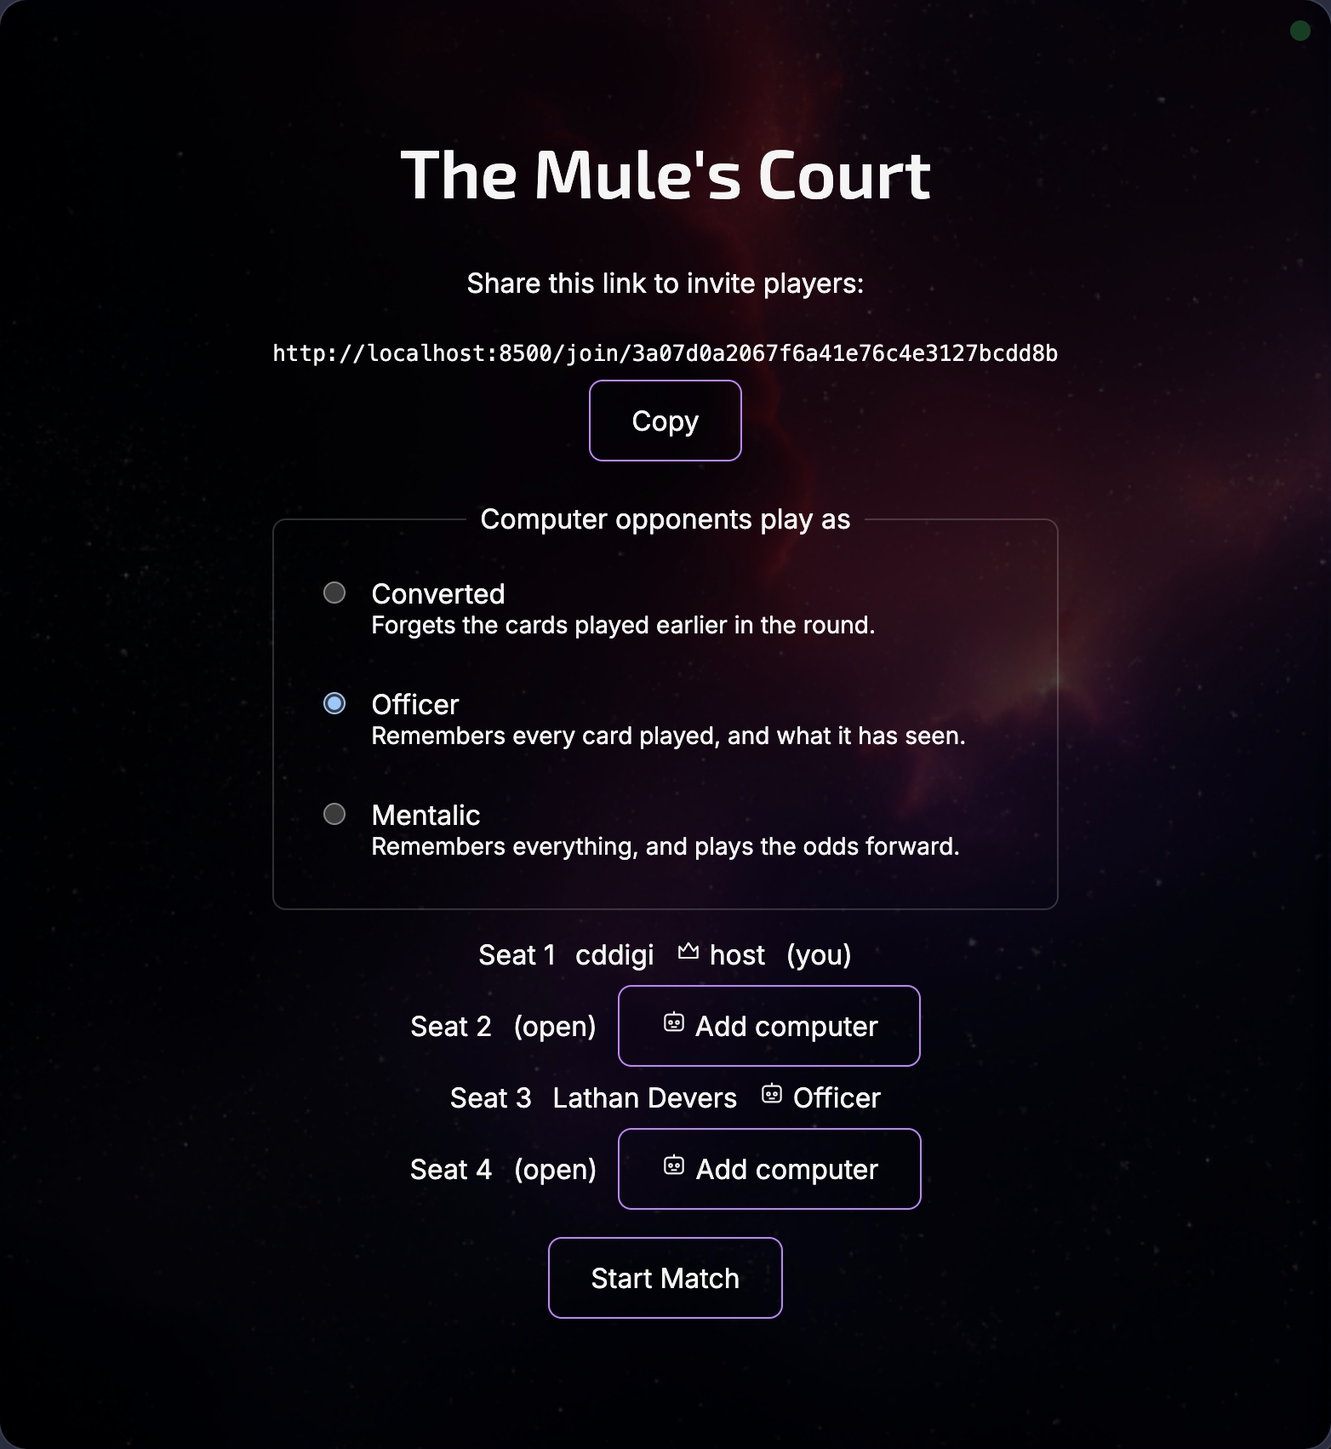
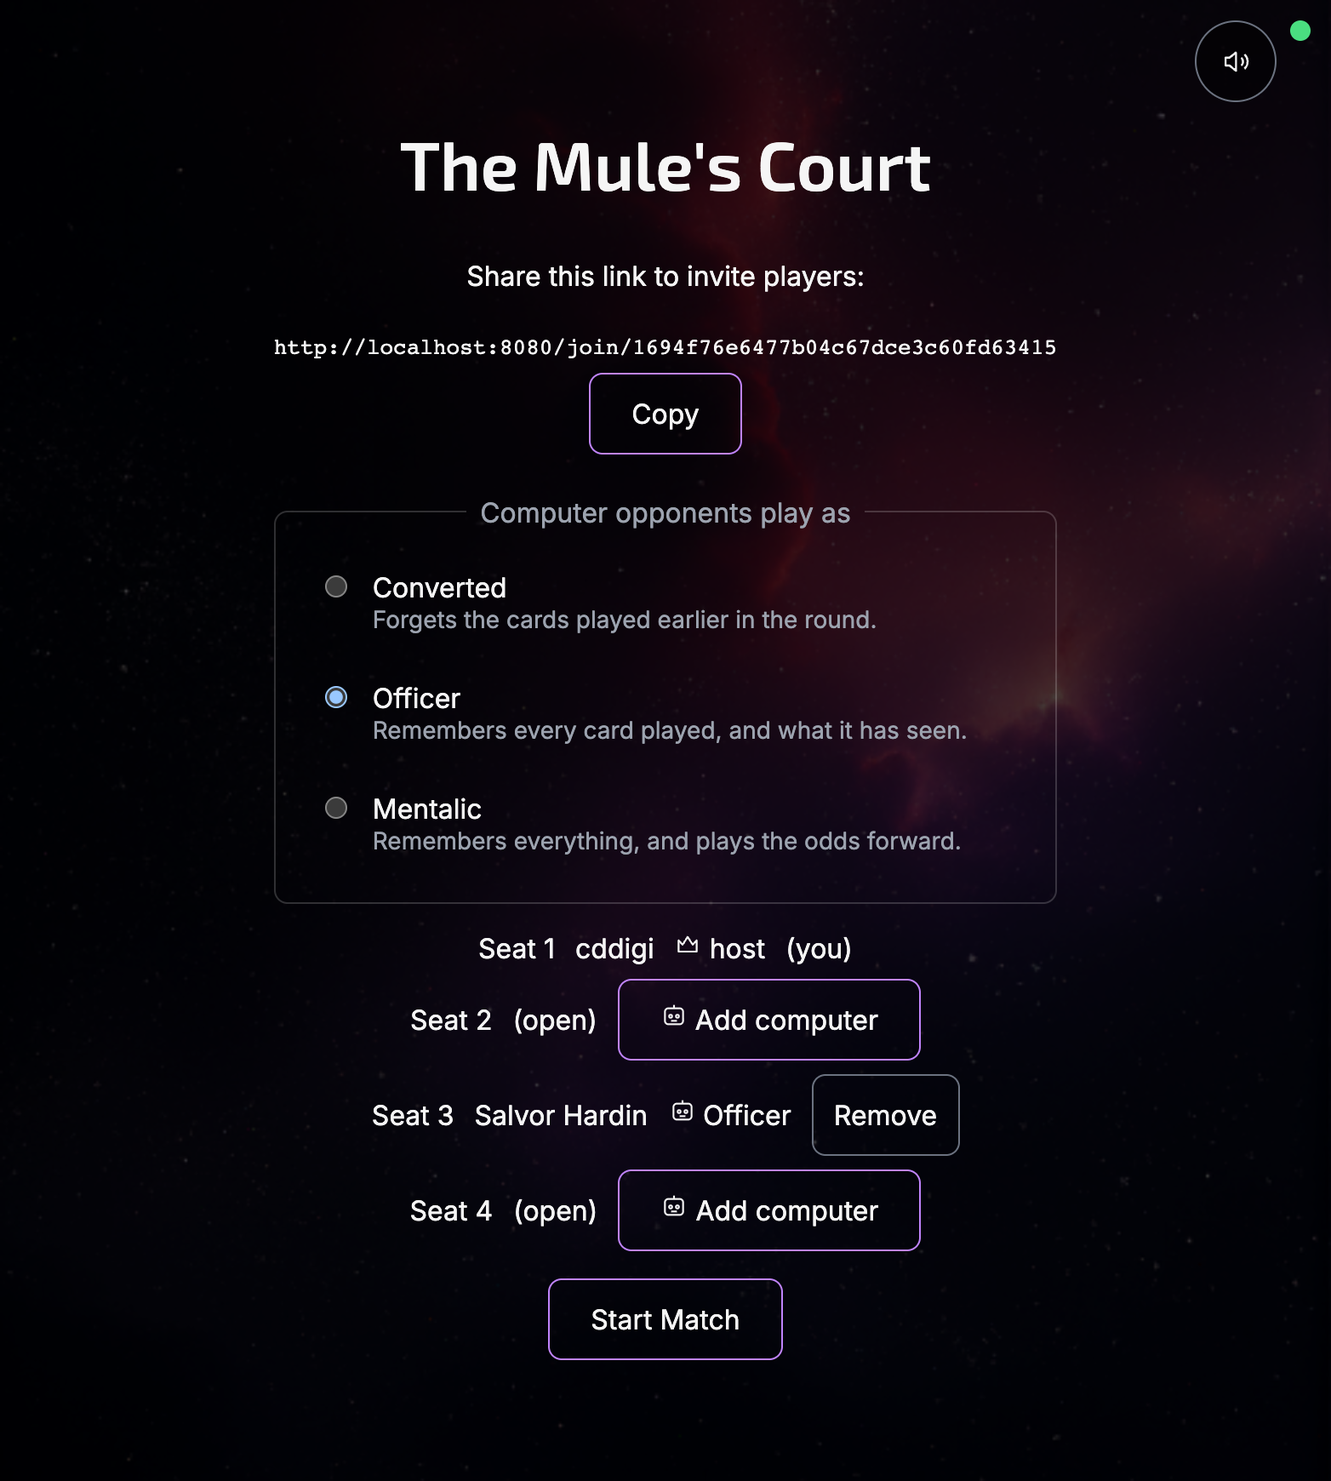
docs: bring README back in line with the code, and record the sounds
An audit against the actual repository, then a re-audit of the corrections.

Two claims were flatly wrong rather than merely stale:

- "Filling a seat is one-way: the lobby has no button to empty it again" —
  REMOVE_BOT shipped in 1.2.4, four days before the README was last edited.
  docs/gameplay/lobby.png showed the same thing: a seated computer with no
  Remove button. Regenerated from a real lobby at the original viewport, and
  the alt text follows the new image.
- "A non-host cannot end a match whose host vanished mid-round" was listed as a
  known limitation. room.ts#endMatch allows any connected seat once a seat has
  been missing past activeGraceMs.

Stale figures, all re-measured rather than adjusted by eye: version 1.2.3 to
1.2.4; 2,151 tests across 122 files to 2,326 across 128; the binary banner's 27
embedded assets to 39; the client's 7.6 MB and 104 KB of JS+CSS to about 9 MB
and 124 KB.

Undocumented things that existed: src/mcp as a fifth layer, visual/, scripts/
and .github/ in the structure table, seven scripts in the commands table, the
--port flag, the visual harness and its gallery, and two more non-obvious test
gates.

public/assets/sfx/ was missing from BOTH files. The README sentence was copied
from AGENTS.md, which had the same omission, so the copy inherited the error.
Both now list every directory.

Those thirteen recorded sounds landed 2026-08-04, after the 1.2.4 release, with
[…]

diff --git a/README.md b/README.md
@@ -27,10 +27,10 @@ takes a seat. Start the match when 2-4 people are seated.
 _The opening screen. Name yourself, then either host a court or paste a link into
 someone else's._
 
-<img src="docs/gameplay/lobby.png" alt="The lobby: the title 'The Mule's Court', an invite link with a Copy button, a radio group headed 'Computer opponents play as' offering Converted, Officer and Mentalic, four numbered seats — seat 1 the host, seat 3 a computer, seats 2 and 4 open with 'Add computer' buttons — and a Start Match button." width="560">
+<img src="docs/gameplay/lobby.png" alt="The lobby: the title 'The Mule's Court', an invite link with a Copy button, a radio group headed 'Computer opponents play as' offering Converted, Officer and Mentalic, four numbered seats — seat 1 the host, seat 3 holding the computer opponent Salvor Hardin marked Officer with a Remove button beside it, seats 2 and 4 open with 'Add computer' buttons — and a Start Match button." width="560">
 
-_The lobby. The invite link is the whole of joining. Any seat still open when you want
-to begin can be filled by a computer opponent instead._
+_The lobby. The invite link is the whole of joining. Any seat still open when you want to
+begin can be filled by a computer opponent instead, and emptied again if somebody turns up._
 
 To play across a room instead of across tabs, use `bun run dev:host` in terminal 2 —
 it binds to the network and prints an address other devices can open. See
@@ -68,8 +68,10 @@ A computer seat waits 1.2 seconds before it plays. That is pacing, not thinking 
 takes well under a millisecond — because three seats resolving instantly is a table nobody
 can read.
 
-Filling a seat is one-way: the lobby has no button to empty it again, so a misclick means
-starting a new court.
+A seated computer opponent can be removed again while the court is still in the lobby, so a
+misclick costs nothing and a table filled while waiting can be emptied when a friend actually
+arrives. It is the host's button and the lobby's only: a seat that vanished mid-round would
+take a player out of a rotation the engine has already dealt to.
 
 ## Game Rules
 
@@ -120,7 +122,9 @@ A round ends when:
 - The deck runs out → Player with the highest card value wins
 
 When the deck runs out, ties break on the **total value of the discard pile**. Players
-still tied after that share the round, and each earns a token.
+still tied after that share the round, and each earns a token. The round-over screen names
+every revealed hand with its value — *Bayta held 8 · The Mule* — because the showdown is
+decided in numbers and reading it should not mean remembering which character carries which.
 
 The round winner earns 1 Devotion Token. Reset the round and continue until a player
 reaches the winning token count.
@@ -205,6 +209,14 @@ Speaker beside a 5 or a 6 takes the choice away from you._
 _**Match log** — every play, guess and consequence in order. It is the deduction game's
 working memory, so nobody has to hold ten turns of public information in their head._
 
+The log is also spoken. Every entry goes to a live region as it happens, so a screen-reader
+player gets a running account of a turn they cannot see. Most of that commentary is heard
+and not drawn — a single turn can emit a play and its effect, and four seats painting all
+of it would bury the table under its own narration. Two things are drawn: anything a card
+did **to you**, told in the second person, and **a guess between two other players**, which
+is the one public statement of a card *value* in the game and the evidence everyone else's
+deduction is built on.
+
 ## Development
 
 ### Tech Stack
@@ -215,7 +227,7 @@ No runtime dependencies. `package.json` declares none: the client is TypeScript 
 
 ### Architecture
 
-Four layers, each testable without the one above it:
+Four layers stacked, each testable without the one above it — and a fifth beside them:
 
 | Layer                | Where               | What it is                                                                     |
 | -------------------- | ------------------- | ------------------------------------------------------------------------------ |
@@ -223,6 +235,7 @@ Four layers, each testable without the one above it:
 | **Server**           | `src/server/`       | `Bun.serve` WebSocket transport that wraps the engine and owns match state     |
 | **Client (pure)**    | `src/client/`       | Layout, copy, palette, and state — no DOM, no ambient globals                 |
 | **Client (surface)** | `src/client/ui/`    | The table and the chrome, one factory per DOM surface                        |
+| **MCP seats**        | `src/mcp/`          | Seats a model at two or three chairs, over the same socket a browser uses    |
 
 The interface holds no game state. The server pushes a `RedactedView` — one player's
 redacted picture of the match — and the client sends back a single `PLAY_CARD` message.
@@ -231,6 +244,13 @@ Anything the interface appears to decide, it read from that view.
 Rooms persist `{seed, actionLog}` rather than a state snapshot, and rebuild by replaying
 actions through the engine. A server restart mid-match is therefore safe: clients
 reconnect with backoff and resume their seat.
+
+`src/mcp/` is a **client** of the transport rather than a part of it: it connects over a
+WebSocket exactly as a browser does and imports the protocol and engine types rather than
+restating them, so wire drift is a compile error. Each seat gets an opaque handle at claim
+time and every seat-scoped tool demands one, so an agent holding one seat's handle cannot
+read another's hand — without that the game stops existing, since one mind holding three
+hands makes every Informant guess a certainty.
 
 Beside those sits `src/game/ai/`, the [computer opponents](#computer-opponents). It is a
 client of the engine rather than a layer of it: a policy takes the same `RedactedView` a
@@ -242,8 +262,9 @@ the embedded asset manifest is: `heuristic.ts` imports it, so a clone without it
 judged — by win rate over seeded matches, not by inspection.
 
 The full design documents live in `docs/plans/` — engine architecture, transport
-protocol, the UI/UX design, and `2026-07-30-computer-opponent-design.md` for the
-opponents.
+protocol, the UI/UX design, `2026-07-30-computer-opponent-design.md` for the opponents,
+and `2026-07-28-mcp-seat-design.md` for the MCP seats. `AGENTS.md` at the repo root is the
+working guide for anyone — human or agent — changing the code.
 
 ### Requirements
 
@@ -273,12 +294,19 @@ one process serving the built `dist/` as well.
 | `bun run dev`         | Vite dev server for the client on `http://localhost:8080` (`vite/config.dev.mjs`)    |
 | `bun run dev:server`  | The API and WebSocket server on `:3000`, under `bun --watch`                         |
 | `bun run dev:host`    | Like `dev`, but bound to the network so another device can reach it                  |
-| `bun run test`        | Every test — engine and client under Vitest, then server under `bun test`            |
+| `bun run test`        | Every test — engine and client under Vitest, then server and MCP under `bun test`    |
 | `bun run test:engine` | Engine and client tests only                                                         |
 | `bun run test:server` | Server and transport tests only                                                      |
+| `bun run test:mcp`    | MCP seat-server tests only                                                           |
 | `bun run test:watch`  | Vitest in watch mode                                                                 |
-| `bun run build`       | Minified production build into `dist/` (`vite/config.prod.mjs`)                      |
+| `bun run test:visual` | Screenshot real matches and real surfaces in a real browser; needs both dev servers  |
+| `bun run build`       | Minified production build into `dist/`, then regenerates the embedded asset manifest |
 | `bun run serve`       | Serve the built `dist/` and the game server from one process                         |
+| `bun run mcp`         | The MCP seat server on stdio; needs a game server running                            |
+| `bun run host`        | Own the game server and seat 1, leaving the rest to arrive over MCP                  |
+| `bun run compile`     | Single-file executable → `./mules-court` (see [As a single binary](#as-a-single-binary)) |
+| `bun run compile:mcp` | Single-file MCP seat server → `./mules-court-mcp`                                    |
+| `bun run generate:assets` | Regenerate the embedded asset manifest from `dist/` (`build` already does this)  |
 
 Type-check with `bunx tsc --noEmit`. Neither `vite build` nor the dev server checks types —
 Vite transpiles without checking — so this is the only command that catches a type error.
@@ -305,19 +333,26 @@ lobby's **Copy** button all work on a phone.
 ### Testing
 
 ```bash
-bun run test         # everything
+bun run build        # FIRST — see below
 bunx tsc --noEmit    # types
-bun run build        # the production bundle still builds
+bun run test         # everything
 ```
 
-Two runners, split by what each layer needs. Engine and client tests run under
-**Vitest**; server and transport tests run under **Bun's own test runner**, because
-Vitest's workers run under Node, which can load neither `bun:sqlite` nor the Bun
-globals the transport depends on.
+**`build` comes first, and the order matters.** The server suite checks the committed
+embedded asset manifest against the *current* `dist/`, and Vite content-hashes the bundle
+filename — so any change to client source, down to a one-word comment, moves the hash and
+leaves the manifest naming a file that no longer exists. Run `test` first and two server
+tests fail with `Cannot find module '../../dist/assets/index-….js'`, which reads like a
+broken import and is really a stale build.
+
+Two runners, three suites. Engine and client tests run under **Vitest**; the server and
+the MCP seat server run under **Bun's own test runner**, because Vitest's workers run
+under Node, which can load neither `bun:sqlite` nor the Bun globals the transport depends
+on — and the MCP tests inherit that, since they open real sockets and spawn a server.
 
 There is no linter configured.
 
-Three gates fail for reasons worth knowing in advance:
+Five gates fail for reasons worth knowing in advance:
 
 - **`src/client/__tests__/purity.test.ts`** — `layout/`, `content/`, `store/`, and
   `tokens/` may not touch a DOM global or import server runtime. It reads raw file
@@ -328,6 +363,34 @@ Three gates fail for reasons worth knowing in advance:
 - **`src/client/layout/discardCapacity.test.ts`** — drives thousands of real matches
   through the engine to prove the layout reserves room for the deepest discard pile
   that can actually occur (eight, not the seven the design assumed).
+- **`src/client/ui/tableContract.test.ts`** — reads `table.ts` as raw source text and
+  asserts every field the pure layout layer publishes is actually named by the renderer.
+  It cannot prove a field is *obeyed*, so its allowlist of deliberate omissions is only as
+  strong as the reason written beside each entry.
+- **`src/client/tokens/tokens.test.ts`** — fails on any `var(--token)` a stylesheet reads
+  and no stylesheet defines, fallback or not. An undefined custom property makes the whole
+  declaration `unset`, which is *not* a fallback to the rule beneath it: a missing spacing
+  step once left a toast with zero padding on every viewport, silently.
+
+#### Seeing it
+
+None of the above can see the table. jsdom has no layout engine, so every geometry
+assertion is arithmetic against a spec — and anything drawn *past* a rect is not a rect.
+`bun run test:visual` closes that, and needs both dev servers up because it drives the
+real socket:
+
+```bash
+bun run dev:server   # terminal 1
+bun run dev          # terminal 2
+bun run test:visual  # terminal 3 — writes PNGs to visual/output/
+```
+
+It runs two passes. The first plays real matches and photographs the lobby and the table
+at eight viewports. The second walks `visual/gallery.ts`, which mounts the real surface
+factories with the real stylesheet in the same real browser, one specimen per page, so
+surfaces a match never walks past — a finished round, a toast — can be photographed and
+measured too. It fails only on what a machine can judge and leaves the rest to eyes, so
+run it after any visual change and actually look at the output.
 
 ### Accessibility
 
@@ -358,11 +421,15 @@ cannot assert — see [Status](#status).
 | `src/client/`       | Browser-independent client: `layout/`, `content/`, `store/`, `tokens/`         |
 | `src/client/ui/`    | One factory per surface with `mount`/`update`/`destroy`; `table.ts` draws the table, `beats.ts` animates it |
 | `src/client/styles/`| Self-hosted fonts, the authoritative palette, and the shell and table CSS      |
+| `src/mcp/`          | The MCP seat server: stdio JSON-RPC, seat handles, one socket per claimed seat |
+| `visual/`           | The screenshot harness and the surface gallery it photographs                  |
+| `scripts/`          | Offline tooling: AI training, the embedded asset manifest, hand-driven matches |
 | `docs/plans/`       | Design documents and implementation plans for each layer                       |
+| `.github/workflows/`| Release automation: type-check, full test run, all five binaries, `SHA256SUMS.txt` |
 
 ### Assets
 
-Portrait art lives under `public/assets/<character-slug>/` — one directory per card (`bail-channis/`, `bayta-darell/`, `ebling-mis/`, `first-speaker/`, `han-pritcher/`, `informant/`, `magnifico/`, `mayor-indbur/`, `mule/`, `shielded-mind/`, `toran-darell/`). The card back, the two effect textures and the playfield background live in their own top-level `public/assets/` folders.
+Portrait art lives under `public/assets/<character-slug>/` — one directory per card (`bail-channis/`, `bayta-darell/`, `ebling-mis/`, `first-speaker/`, `han-pritcher/`, `informant/`, `magnifico/`, `mayor-indbur/`, `mule/`, `shielded-mind/`, `toran-darell/`). Four more top-level folders hold the rest: `card-back/` for the deck and every face-down card, `shaders/` for the effect textures, `misc/` for the playfield background and the devotion token badge, and `sfx/` for the thirteen recorded sounds. Portrait art is still the bulk of the bundle at 4.6 MB; after it come the card back at 1.5 MB and the recordings at 1.4 MB. `shaders/distortion_map.png` ships but is deliberately unused — the Mule's ripple is not a displacement filter, a DOM table offering no surface to warp.
 
 Four thematic variants exist for every character, but **only the one the game
 uses ships**. Vite copies `public/` into the bundle verbatim, so the three
@@ -410,6 +477,16 @@ every machine because the design says so.
 | `MULES_DB_PATH`         | `mules-court.sqlite`    | Relative to the working directory                 |
 | `MULES_STATIC_ROOT`     | none                    | Directory of built client files, or unset for none |
 
+**The port also has a flag: `--port=5000` or `--port 5000`**, accepted by `bun run serve`
+and by the binary alike. It exists because the port is the only one of the four whose
+value you learn *at the moment of starting the server* — :3000 turns out to be busy, and
+there is nowhere to put an environment variable in that sentence. The flag beats
+`MULES_PORT` and moves the derived invite link with it; an explicitly named
+`MULES_PUBLIC_BASE_URL` still outranks both, since a proxy or a domain is a deployment
+fact that changing the listen port does not invalidate. It is the only flag, and an
+argument that is not it exits 1 rather than being ignored — `bun run serve --prot=5000`
+should not bind :3000 and leave you wondering.
+
 An unusable `MULES_PORT` refuses to start rather than falling back to 3000: a server
 listening somewhere other than where it was told is worse than one that does not come
 up. Behind a reverse proxy, set `MULES_PUBLIC_BASE_URL` to the public origin — though
@@ -436,8 +513,8 @@ Cross-compile with `bun run compile:linux-x64`, `compile:linux-arm64`,
 `.github/workflows/release-binaries.yml`, which type-checks, runs every test, builds all
 five targets and attaches them with a `SHA256SUMS.txt`. One runner covers every
 platform, because `--target` cross-compiles from any host. The size is Bun's runtime rather than the game, and is unavoidable with
-`--compile`: the entire client accounts for about 7.6 MB of it, and only 104 KB of
-*that* is JavaScript and CSS — the rest is portrait art.
+`--compile`: the entire client accounts for about 9 MB of it, and only ~124 KB of
+*that* is JavaScript and CSS — the rest is portrait art and 1.4 MB of recorded sound.
 
 **It lists every address it can be reached on**, because it is reachable on all of
 them: the server is given no bind hostname, so it listens on every interface from the
@@ -451,7 +528,7 @@ variable — only the right address:
                http://192.168.1.24:3000    en0
                http://100.101.102.103:3000 tailscale
   Database     /Users/you/mules-court.sqlite
-  Assets       27 files compiled in
+  Assets       39 files compiled in
 
   Other devices can use any address below the first. Open that same
   one here too, before you invite anyone — the invite link is built
@@ -490,8 +567,8 @@ than editing it.
 
 ## Status
 
-Version 1.2.3. The engine, the transport, the client, the computer opponents and
-the MCP seat server are built and tested — 2,151 tests across 122 files — and a
+Version 1.2.4. The engine, the transport, the client, the computer opponents and
+the MCP seat server are built and tested — 2,326 tests across 128 files — and a
 match is playable end to end, alone or with up to three other people, from a
 checkout or from a single-file binary you compile yourself.
 
@@ -504,7 +581,6 @@ Known limitations:
 - **Binaries are unsigned.** macOS quarantines them on download and Windows SmartScreen
   flags them; see [As a single binary](#as-a-single-binary). Every release attaches a
   `SHA256SUMS.txt`, which is the only way to tell a good copy from a tampered one.
-- **A non-host cannot end a match whose host vanished mid-round.**
 
 ### License
 

diff --git a/CHANGELOG.md b/CHANGELOG.md
@@ -62,6 +62,22 @@ and this project adheres to [Semantic Versioning](https://semver.org/spec/v2.0.0
 
 ### Added
 
+- **Thirteen recorded sounds, and synthesis kept underneath them.** The table's
+  voice was nine synthesised effects (1.2.1); it is now a recorded take per
+  entry in `src/client/store/sound.ts`, ambience included, at 1.4 MB under
+  `public/assets/sfx/`. Every spec still carries its complete synthesis recipe —
+  oscillators, filters, envelopes — and the layer owning the audio graph
+  *prefers the recording and falls back to the recipe*. The fallback is the
+  point: a sample can fail to arrive for reasons that have nothing to do with
+  this game — a cold cache, a codec a browser will not decode, a tab opened
+  offline — and a table answering any of those with silence has lost something a
+  synthesised table would not have. Synthesis costs zero bytes and cannot 404,
+  so it stays as the floor rather than being deleted once the files existed. The
+  loader is injected and optional, so a client built without it synthesises
+  everything and has no ambience, which is exactly the game as it stood before
+  the recordings and is still fully covered by the tests written for it.
+  *(Landed 2026-08-04, after the 1.2.4 release, and had no entry until now — the
+  gap that prompted this file's `[Unreleased]` section.)*
 - **The visual harness photographs surfaces a match never walks past.**
   `bun run test:visual` played a real match, screenshotted the deal, and stopped
   — so it had never captured a round-over overlay, which comes after a round it

diff --git a/AGENTS.md b/AGENTS.md
@@ -408,7 +408,7 @@ The slug does **not** always match the card's display name. Mapping (README card
 | The First Speaker    | `first-speaker/` | 7     |
 | The Mule             | `mule/`          | 8     |
 
-Other asset dirs: `card-back/` (the deck and face-down cards), `shaders/` (`rainbow_gradient.png` for the devotion-token shimmer, `sparkle_pattern.png` for the victory burst), and `misc/` (the playfield background and the devotion token badge). Catalogued in `VISUAL_SHOWCASE.md`.
+Other asset dirs: `card-back/` (the deck and face-down cards), `shaders/` (`rainbow_gradient.png` for the devotion-token shimmer, `sparkle_pattern.png` for the victory burst; `distortion_map.png` ships and is unused by design), `misc/` (the playfield background and the devotion token badge), and `sfx/` (thirteen recorded takes, one per entry in `src/client/store/sound.ts`, 1.4 MB — just under `card-back/`'s single 1.5 MB texture). Catalogued in `VISUAL_SHOWCASE.md`.
 
 ## Skills
 
